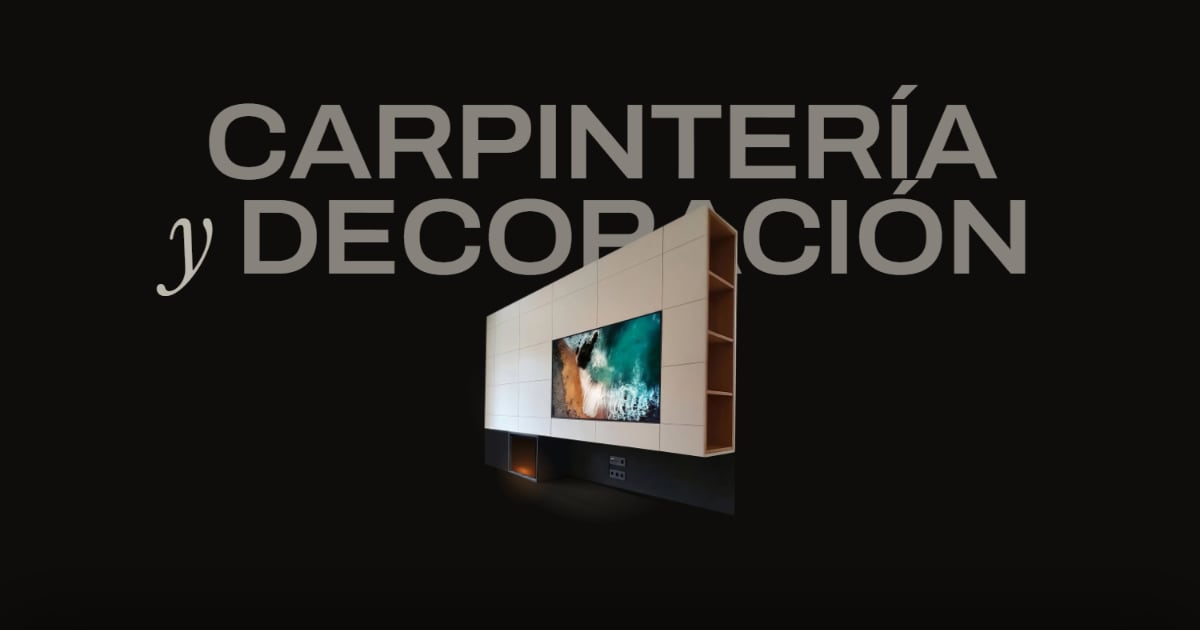
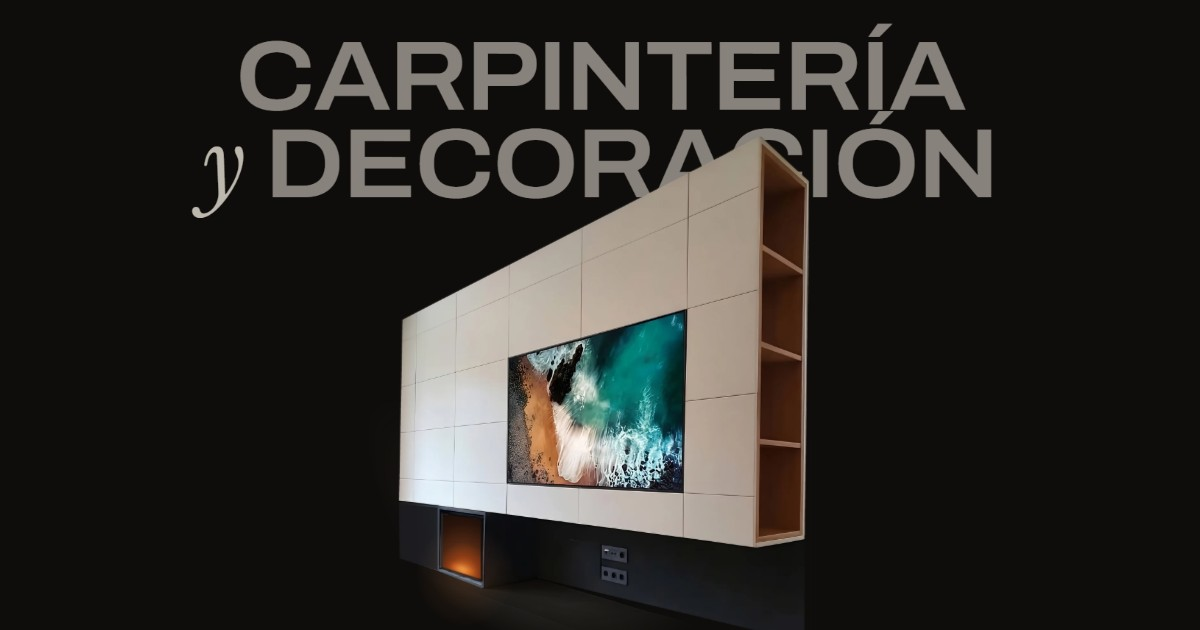
Hero más fluido con scroll rápido, fondo serrín en Cómo trabajamos e imagen para compartir más grande

Changed region(s): [[0.1233, 0.0302, 0.8633, 0.9952], [0.6167, 0.9952, 0.6783, 1.0], [0.1233, 0.4524, 0.1542, 0.4825]]

diff --git a/src/hooks/useHeroParallax.ts b/src/hooks/useHeroParallax.ts
@@ -1,6 +1,6 @@
 import { useEffect, useRef, type RefObject } from 'react'
 import type { HeroDoorsHandle } from '@/components/hero/HeroDoors'
-import { OPEN_COMPLETE, OVER_TV_RIGHT_HALF } from '@/components/hero/heroDoorsChoreography'
+import { OPEN_COMPLETE, OVER_TV_RIGHT_OPEN } from '@/components/hero/heroDoorsChoreography'
 
 /** Capas del hero que se mueven con el scroll. */
 export interface HeroLayers {
@@ -24,11 +24,20 @@ const OPEN_PAUSE = 0.12
  * Scroll (en pantallas) a partir del cual el contenido de Inicio sube por encima del hero (es el alto
  * del espaciador de HomePage):
  *   - escritorio: con el mueble abierto del todo, más una pequeña pausa (≈ 0,88), para que se vea entero;
- *   - móvil (vertical, o apaisado bajo): antes, cuando la puerta derecha de encima de la tele va por la
- *     mitad de su recorrido (≈ 0,5); el resto de la apertura se ve mientras sube.
+ *   - móvil (vertical, o apaisado bajo): cuando la puerta derecha de encima de la tele termina de abrirse
+ *     (≈ 0,69). Antes subía con esa puerta a medio abrir (≈ 0,5) y, con un tirón rápido del dedo, la
+ *     página tapaba el mueble antes de verlo. Lo que quede de apertura se ve mientras sube.
  */
 export const CURTAIN_SCREENS = (OPEN_COMPLETE + OPEN_PAUSE) * OPEN_SCREENS
-export const CURTAIN_SCREENS_MOBILE = OVER_TV_RIGHT_HALF * OPEN_SCREENS
+export const CURTAIN_SCREENS_MOBILE = OVER_TV_RIGHT_OPEN * OPEN_SCREENS
+
+/**
+ * Tiempo mínimo (s) que tarda la apertura completa del mueble. Con un scroll normal se va más
+ * despacio que esto y la animación sigue al dedo/rueda sin retraso; con un golpe rápido de rueda o un
+ * tirón en el móvil, la apertura no salta de golpe: va por detrás del scroll a esta velocidad máxima y
+ * se pone al día sola. (No frena la página: el scroll del usuario nunca se toca.)
+ */
+const MIN_OPEN_SECONDS = 0.7
 
 const clamp = (value: number) => Math.min(Math.max(value, 0), 1)
 const EMPTY: HeroLayers = { section: null, room: null, name: null, group: null, cabinet: null, tv: null, footer: null, shade: null }
@@ -63,6 +72,9 @@ export function useHeroParallax(doors?: RefObject<HeroDoorsHandle | null>) {
     let frame = 0
     // true desde que la cortina ha tapado el hero entero hasta que se vuelve arriba del todo.
     let assembled = false
+    // Scroll "mostrado": persigue a window.scrollY con velocidad limitada (ver MIN_OPEN_SECONDS).
+    let shown = window.scrollY
+    let lastTime = 0
 
     const set = (element: HTMLElement | null, transform: string, opacity?: number) => {
       if (!element) return
@@ -70,13 +82,19 @@ export function useHeroParallax(doors?: RefObject<HeroDoorsHandle | null>) {
       if (opacity !== undefined) element.style.opacity = String(opacity)
     }
 
-    const update = () => {
+    const update = (time: number = performance.now()) => {
       frame = 0
       const l = layers.current
       const vh = window.innerHeight
-      const scroll = window.scrollY
+      const real = window.scrollY
+      // Segundos desde el fotograma anterior (con tope: tras una pestaña en segundo plano no da un salto).
+      // Primer fotograma tras estar quieto: se cuenta como uno normal (1/60 s).
+      const dt = lastTime ? Math.min((time - lastTime) / 1000, 0.05) : 1 / 60
+      lastTime = time
 
       if (reduced.matches) {
+        const scroll = real
+        shown = real
         for (const key of ['room', 'name', 'group', 'cabinet', 'tv'] as const) set(l[key], '')
         doors?.current?.update(0)
         if (l.footer) l.footer.style.opacity = String(clamp(1 - (scroll / vh) * 2.5))
@@ -90,7 +108,14 @@ export function useHeroParallax(doors?: RefObject<HeroDoorsHandle | null>) {
       const curtain = document.querySelector<HTMLElement>('[data-curtain]')
       const cover = curtain ? clamp(1 - curtain.getBoundingClientRect().top / vh) : 0
       if (cover >= 0.99) assembled = true // hero tapado del todo: se monta sin que se vea
-      else if (scroll < 4) assembled = false // arriba del todo: vuelve a empezar la secuencia
+      else if (real < 4) assembled = false // arriba del todo: vuelve a empezar la secuencia
+
+      // Avance limitado del scroll mostrado. Montado (hero tapado o recién rearmado) no hay nada que
+      // animar: se iguala al real para que la siguiente apertura empiece desde donde está la página.
+      const maxStep = ((vh * OPEN_SCREENS) / MIN_OPEN_SECONDS) * dt
+      if (assembled) shown = real
+      else shown += Math.max(-maxStep, Math.min(maxStep, real - shown))
+      const scroll = shown
 
       // Montado: todo en reposo (e = 0, p = 0); la cortina sigue oscureciendo con "shade".
       const e = assembled ? 0 : clamp(scroll / (vh * OPEN_SCREENS)) // apertura 0 → 1
@@ -117,6 +142,10 @@ export function useHeroParallax(doors?: RefObject<HeroDoorsHandle | null>) {
       }
       if (l.shade) l.shade.style.opacity = String(clamp(cover * 0.9))
       if (l.section) l.section.dataset.covered = cover >= 0.99 ? 'true' : 'false'
+
+      // Aún no ha alcanzado al scroll real: sigue animando aunque ya no lleguen eventos de scroll.
+      if (Math.abs(real - shown) > 0.5) frame = requestAnimationFrame(update)
+      else lastTime = 0
     }
 
     const request = () => {

diff --git a/src/components/sections/ProcessSection.tsx b/src/components/sections/ProcessSection.tsx
@@ -51,7 +51,7 @@ export function ProcessSection({ level = 'h2' }: ProcessSectionProps) {
   return (
     <section
       aria-labelledby="como-trabajamos-titulo"
-      className={`border-y border-ink/10 bg-paper bg-[linear-gradient(to_right,rgb(28_25_22/0.05)_1px,transparent_1px),linear-gradient(to_bottom,rgb(28_25_22/0.05)_1px,transparent_1px)] bg-size-[24px_24px] ${level === 'h1' ? 'pt-32 pb-24 lg:pt-40 lg:compact:pt-32' : 'py-24 lg:pt-36 lg:compact:pt-24'} lg:pb-36 lg:compact:pb-24`}
+      className={`border-y border-ink/10 bg-sawdust bg-[linear-gradient(to_right,rgb(28_25_22/0.07)_1px,transparent_1px),linear-gradient(to_bottom,rgb(28_25_22/0.07)_1px,transparent_1px)] bg-size-[24px_24px] ${level === 'h1' ? 'pt-32 pb-24 lg:pt-40 lg:compact:pt-32' : 'py-24 lg:pt-36 lg:compact:pt-24'} lg:pb-36 lg:compact:pb-24`}
     >
       <Container>
         <SectionHeading

diff --git a/src/components/hero/heroDoorsChoreography.ts b/src/components/hero/heroDoorsChoreography.ts
@@ -55,8 +55,8 @@ const OVER_TV_WHITE = 'rgb(172 160 145)'
 
 const OVER_TV_RIGHT_START = 0.42
 const OVER_TV_RIGHT_SPAN = 0.5
-/** Progreso en el que la puerta derecha de encima de la tele va por la mitad: ahí sube la cortina en móvil. */
-export const OVER_TV_RIGHT_HALF = OVER_TV_RIGHT_START + OVER_TV_RIGHT_SPAN / 2
+/** Progreso en el que la puerta derecha de encima de la tele termina de abrirse: ahí sube la cortina en móvil. */
+export const OVER_TV_RIGHT_OPEN = OVER_TV_RIGHT_START + OVER_TV_RIGHT_SPAN
 
 export const DOORS: readonly Door[] = [
   // La 1.ª columna usa el interior de la 2.ª reflejado: las dos comparten la caja vertical que tapa una
